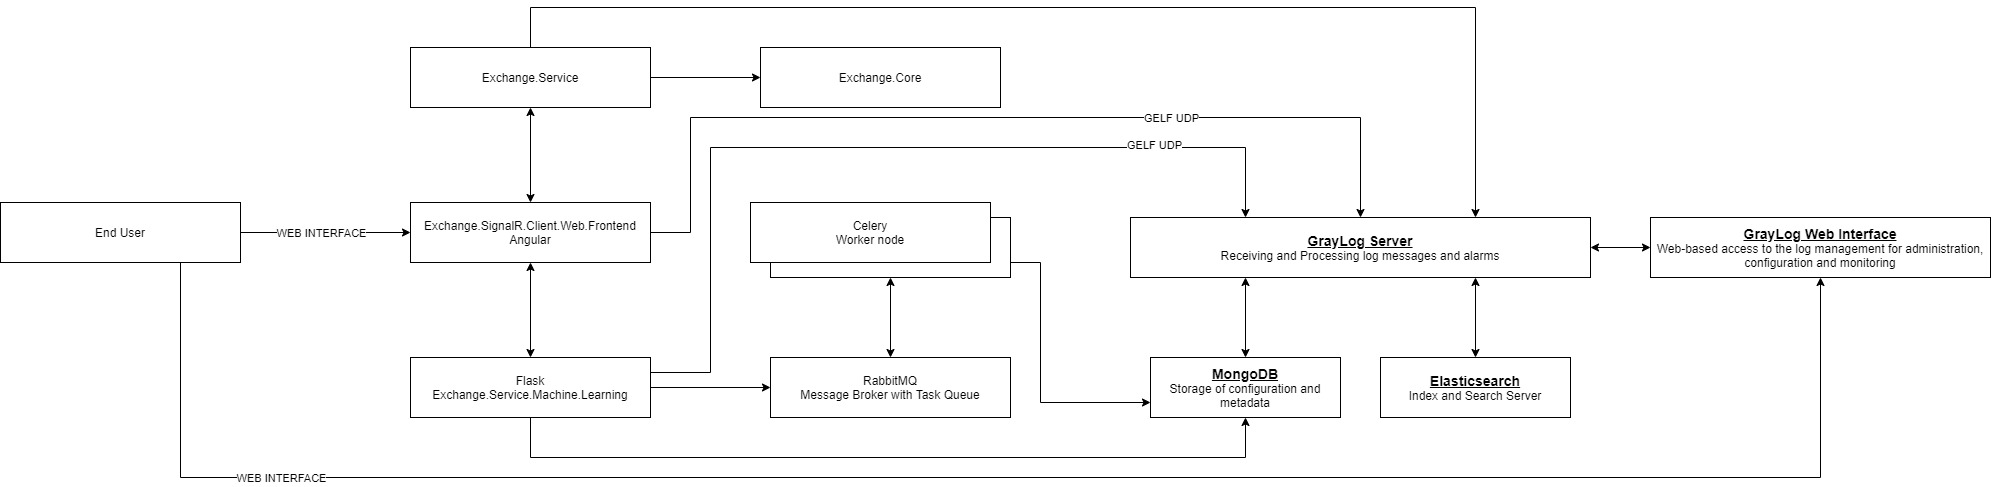
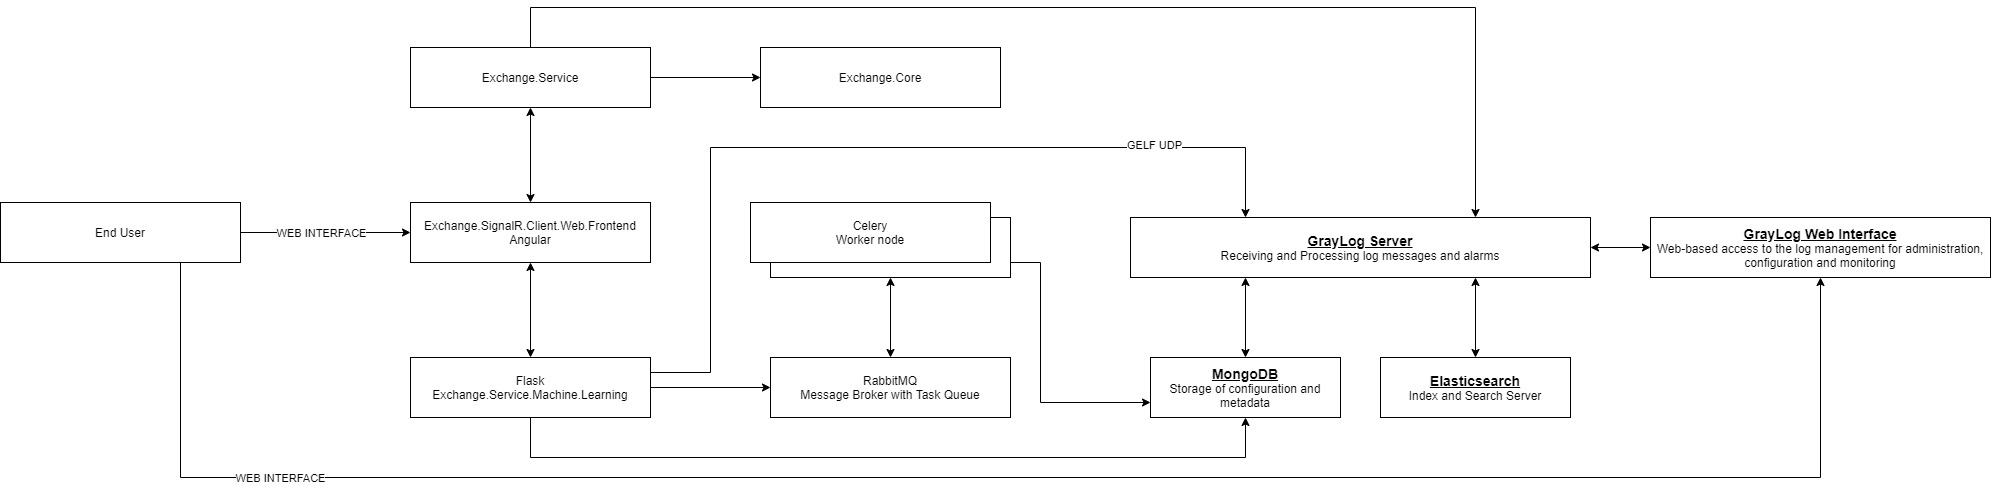
cleanu up

diff --git a/exchange.signalR.client.web.frontend/src/app/core/services/main.service.ts b/exchange.signalR.client.web.frontend/src/app/core/services/main.service.ts
@@ -8,16 +8,6 @@ import { HubClient } from "./hub.client";
 import { NotificationContainer } from "@interfaces/notification-container.interface";
 import { ExchangeUIContainer } from "@interfaces/exchange-ui-container.interface";
 import * as NotificationContainerActions from "@actions/notification-container.actions";
-//import * as log from "gelf-pro";
-// import * as graylog2 from "graylog2";
-// var logger = new graylog2.graylog({
-//     servers: [
-//         { host: "192.168.1.203", port: 12201 },
-//     ]
-// });
-// const a:any = log;
-// a.setConfig({adapterOptions: {host: '192.168.1.203'}});
-// a.info("Hello world");
 
 //Interface to the business layer
 @Injectable()
@@ -29,7 +19,6 @@ export class MainService extends HubClient {
     private hubConnection: HubConnection;
     private hubUrl:string = this.config.HUBURL;
     private hubName:string = this.config.HUBNAME;
-    //private logger: any = log;
 
     @select("notificationContainer") notificationContainer$: Observable<NotificationContainer>;
     notificationContainer: NotificationContainer;
@@ -39,19 +28,6 @@ export class MainService extends HubClient {
     constructor(private config: AppConfig, private ngRedux: NgRedux<AppState>) {
         super();
         let url: string = this.hubUrl + "/" + this.hubName;
-        //this.logger = log;
-        //this.logger.info("log");
-        //this.logger = log();
-        // log.setConfig({
-        //     fields: {
-        //       application: 'app-name'
-        //     },
-        //     adapterOptions: {
-        //       host: '192.168.1.203' // graylog host should be configured via secrets
-        //     }
-        //   });
-        //   //log.message.
-        // log.info('Hello world');
         this.hubConnection = new HubConnectionBuilder().withUrl(url).build();
     }
 
